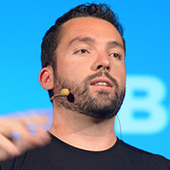
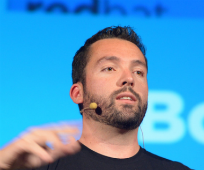
Mark Bates added in Speaker Section
And also edited the Images

diff --git a/index.html b/index.html
@@ -129,7 +129,21 @@ title: Welcome
           <p class="about-speaker">William Kennedy is a managing partner at Ardan Studios in Miami, FL, a mobile and web app development company. He is also a co-author of the book <a href="http://www.goinactionbook.com/" target="_blank">Go In Action</a>, the author of the blog <a href="http://goinggo.net/" target="_blank">GoingGo.Net </a> and the organizer for the Go and MongoDB meetups in Miami. Bill is focused on Go education and through his new venture <a href="http://www.goinggotraining.net/" target="_blank">GoingoGo Training</a>, Bill continues the cause by working with individuals and groups who want to take their Go knowledge and coding skills to the next level.</p>
         </div><!-- /.span7 -->
       </div>
-		<p class="home-paragraph text-center">
+	
+		<div class="row speaker">
+        <div class="col-sm-2 image center">
+          <div class="image-box">
+            <img alt="speaker image" src="images/speakers/mark-bates.jpg">
+          </div><!-- /.image-box -->
+        </div><!-- /.image -->
+        <div class="col-sm-10">
+          <p class="name">Mark Bates</p>
+          <p class="company"><a href="https://twitter.com/markbates" target="_blank">@markbates</a></p>
+          <p class="about-speaker">Mark Bates is the founder and chief architect of the Boston, MA based consulting company, Meta42 Labs. Mark spends his days focusing on new application development and consulting for his clients. At night he writes books, raises kids, and occasionally he forms a band and “tries to make it”. Mark is the author of three books, “Distributed Programming with Ruby” (2009), “Programming in CoffeeScript” (2012), and “Conquering the Command Line” (2014). He also runs the weekly Golang screencast site, <a href="//www.metacasts.tv" target="_blank">www.metacasts.tv</a></p>
+        </div><!-- /.span7 -->
+      </div>
+	
+	<p class="home-paragraph text-center">
 		More speakers to be announced!
 		</p>
 	</div>
